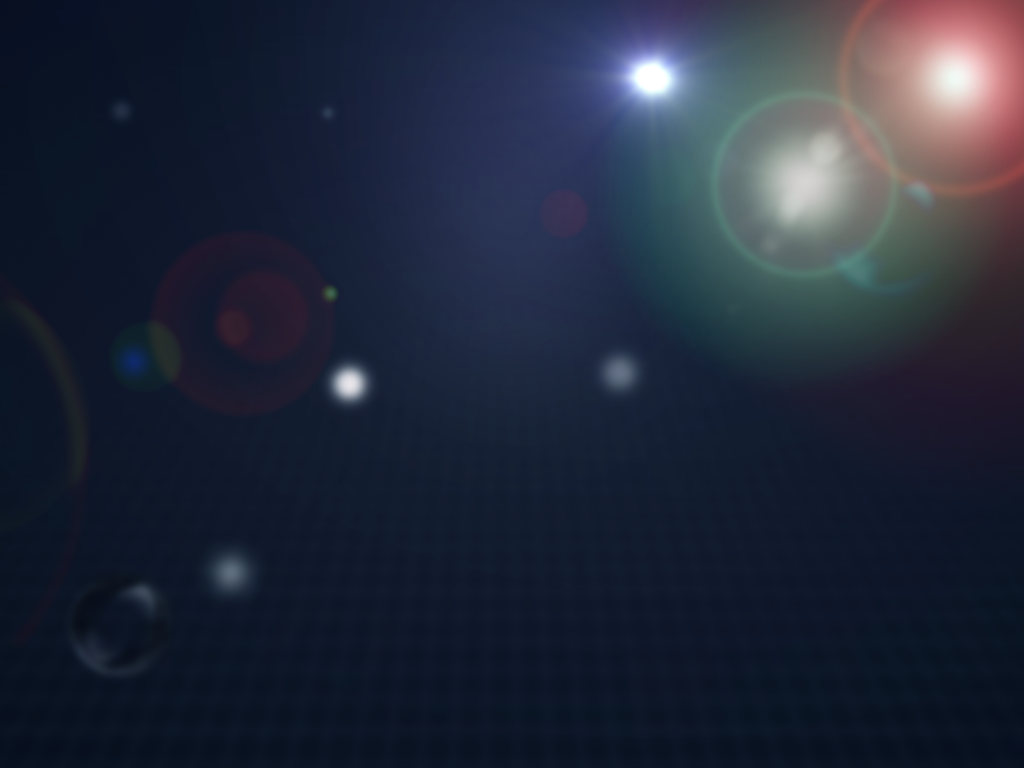
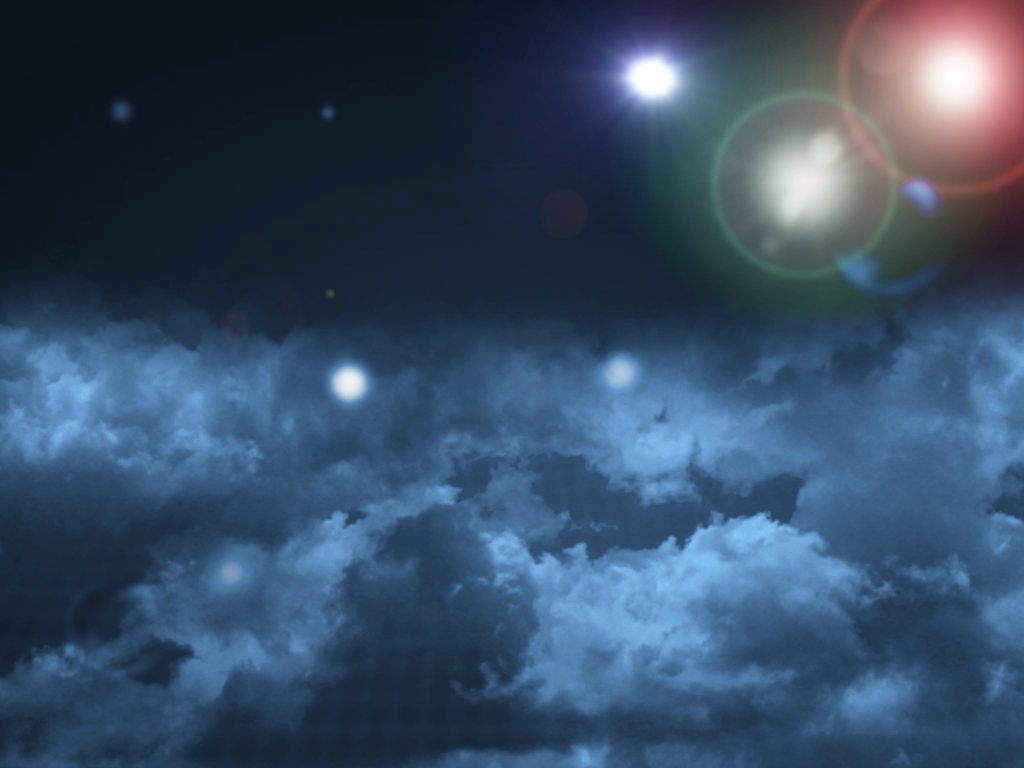
new css rules added

diff --git a/wp-content/themes/looptheme/assets/styles/layouts/_pages.scss b/wp-content/themes/looptheme/assets/styles/layouts/_pages.scss
@@ -46,9 +46,6 @@ html {
           max-width: 70%;
           background-color: $primary-color;
           padding: 15px !important;
-          > * > * {
-            margin: 0 10px 15px !important;
-          }
 -webkit-border-radius: 7px !important;
 border-radius: 7px !important;
           border: 1px solid $border-color !important;
@@ -112,14 +109,14 @@ border-radius: 0 0 12px 12px !important;
             > input {
               float: left;
               min-width: 50%;
-              max-width: 74%;
+              max-width: 64%;
             }
 
             > span {
               float: right;
               width: 100%;
               max-width: 18%;
-              margin-right: 4%;
+              margin-right: 12%;
             }
           }
         }
@@ -133,5 +130,114 @@ border-radius: 0 0 12px 12px !important;
     }
 
     //body end
+  }
+}
+
+html body .container {
+  .widget_calendar,
+  .widget_tag_cloud,
+  .widget_newsletterwidget {
+    position: relative;
+    display: inline-block;
+    float: left;
+    width: 100%;
+    max-width: 23%;
+    height: auto !important;
+  }
+
+  .widget_calendar {
+    table#wp-calendar {
+      clear: both;
+      position: relative;
+      width: 100% !important;
+      max-width: 94%;
+      height: auto !important;
+
+      caption {
+        font-size: 1.5em;
+        font-weight: bold;
+      }
+
+      thead,
+      tbody,
+      tfoot {
+        tr {
+          * {
+            font-weight: bold !important;
+            text-align: center;
+            vertical-align: middle;
+            padding: 0.5em 0.6em !important;
+          }
+
+          th {
+            display: inline-block;
+            padding: 0.5em 0.8em !important;
+            content: "&nbsp;";
+          }
+
+          td {
+            color: $primary-font-color !important;
+
+            a {
+              color: $tertiary-color !important;
+              padding: 0 !important;
+
+              &:hover {
+                color: $secondary-font-color !important;
+              }
+            }
+          }
+        }
+      }
+
+      tbody {
+        display: inline-block;
+        background-color: none !important;//rgba(8,18,28,1);
+        background: url('/wp-content/themes/looptheme/assets/images/GreenColorArea.jpg') !important;
+        background-size: 100%;
+        background-position: top left;
+        background-attachment: fixed;
+        border: 1px solid transparent !important;
+-webkit-border-radius: 12px !important;
+border-radius: 12px !important;
+        overflow: hidden !important;
+      }
+
+      tfoot {
+        display: none;
+      }
+    }
+  }
+
+  .widget_tag_cloud {
+    float: right;
+    max-width: 73%;
+
+    .tagcloud {
+      a {
+        color: $tertiary-color !important;
+        background-color: none !important;//rgba(8,18,28,1);
+        background: url('/wp-content/themes/looptheme/assets/images/RedColorArea.jpg') repeat !important;
+        background-size: 100%;
+        background-position: top left;
+        background-attachment: fixed;
+        padding: 0.2em 0.5em !important;
+        margin-right: 0.5em;
+        margin-bottom: 15px;
+        font-size: 1em !important;
+-webkit-border-radius: 7px !important;
+border-radius: 7px !important;
+        border: 1px solid transparent !important;
+        overflow: hidden !important;
+
+        &:hover {
+          background: url('/wp-content/themes/looptheme/assets/images/GreenColorArea.jpg') repeat !important;
+        }
+      }
+    }
+  }
+
+  .widget_newsletterwidget {
+    max-width: 73%;
   }
 }

diff --git a/wp-content/themes/looptheme/assets/styles/common/_global.scss b/wp-content/themes/looptheme/assets/styles/common/_global.scss
@@ -13,6 +13,14 @@ html {
     background-position: top left;
     background-attachment: fixed;
 
+    img.backgroundTop {
+      position: absolute;
+      top: 0;
+      left: 0;
+      width: 100%;
+      height: auto !important;
+    }
+
     div.container.wrap {
       position: relative;
       display: block;
@@ -72,7 +80,8 @@ html {
 
     h1 {
       font-weight: bold !important;
-      color: rgba(200,200,200,1) !important;
+      //color: rgba(200,200,200,1) !important;
+      color: $tertiary-color !important;
       text-shadow: 0 0 1px #444 !important;
     }
 
@@ -119,12 +128,14 @@ html {
       display: inherit;
       color: $primary-font-color !important;
       background-color: $textfield-color !important;
+      padding: 0.25em 0.5em !important;
       border: 1px solid $border-color !important;
       -webkit-border-radius: 7px !important;
       border-radius: 7px !important;
       overflow: hidden !important;
       opacity: $font-opacity !important;
       resize: none !important;
+      margin-top: 15px !important;
       margin-right: 2% !important;
 
       &:focus {
@@ -142,11 +153,7 @@ box-shadow: 0 0 2px 3px rgba(220,235,255,0.33) !important;
       font-weight: bold !important;
       position: relative;
       display: inherit;
-      &, * {
-        color: #fff !important;
-        font-weight: bold !important;
-        letter-spacing: 0.025em !important;
-      }
+      margin-top: 15px !important;
 background: rgb(38,67,102) !important;
[1 lines of base64/hex data omitted]
 background: -moz-linear-gradient(top, rgba(38,67,102,1) 0%, rgba(25,87,141,1) 50%, rgba(21,79,129,1) 51%, rgba(35,126,195,1) 100%) !important;
@@ -160,6 +167,12 @@ filter: progid:DXImageTransform.Microsoft.gradient( startColorstr='#264366', end
       -webkit-border-radius: 7px !important;
       border-radius: 7px !important;
       opacity: $button-opacity !important;
+
+      &, * {
+        color: #fff !important;
+        font-weight: bold !important;
+        letter-spacing: 0.025em !important;
+      }
 
       &:hover {
 background: rgb(30,146,6) !important;

diff --git a/wp-content/themes/looptheme/assets/styles/layouts/_header.scss b/wp-content/themes/looptheme/assets/styles/layouts/_header.scss
@@ -21,7 +21,8 @@ body {
 
       a.brand {
         position: relative;
-        float: left;
+        display: block;
+        float: none;
         font-size: 4.2em !important;
         font-weight: bold !important;
         font-family: 'IM Fell Great Primer', serif;
@@ -29,13 +30,68 @@ body {
         text-decoration: none !important;
         text-shadow: 0 0 3px $quarter-color !important;
         margin-right: 2% !important;
+        z-index: 0;
+
+        img.mainLogo {
+          position: relative;
+          left: -20px;
+          display: block;
+          width: 100%;
+          max-width: 480px;
+          height: auto !important;
+          z-index: 10000;
+        }
       }
 
       .slogan {
         position: relative;
-        display: inline-block;
+        display: none !important;//inline-block;
+        visibility: hidden !important;
         margin-top: 2.25em !important;
         letter-spacing: 0.025em !important;
+      }
+
+      > nav {
+        position: relative;
+        clear: both;
+        display: inline-block;
+        z-index: 9500;
+
+        div {
+          ul {
+            position: relative;
+            display: block;
+            width: 100%;
+            height: auto !important;
+
+            li {
+              display: inline-block;
+              padding: 0 !important;
+              margin-right: 0.5em !important;
+              background-color: none;
+              background-image: url('/wp-content/themes/looptheme/assets/images/RedColorArea.jpg');
+              background-size: 100%;
+              background-position: top left;
+              background-attachment: fixed;
+-webkit-border-radius: 12px !important;
+border-radius: 12px !important;
+              border: 1px solid $border-color !important;
+-webkit-box-shadow: 0 0 6px 0 $shadow-color;
+box-shadow: 0 0 6px 0 $shadow-color;
+              overflow: hidden !important;
+
+              a {
+                color: $tertiary-color !important;
+                font-size: 1.25em !important;
+                padding: 0.5em 0.75em !important;
+              }
+
+              &:hover {
+                background-image: url('/wp-content/themes/looptheme/assets/images/GreenColorArea.jpg');
+              }
+            }
+          }
+        }
       }
     }
   }

diff --git a/wp-content/themes/looptheme/assets/styles/layouts/_posts.scss b/wp-content/themes/looptheme/assets/styles/layouts/_posts.scss
@@ -19,6 +19,10 @@ html {
           width: 100%;
           margin-top: 15px !important;
 
+          > * {
+            margin: 15px !important;
+          }
+
           .page-header {
             border-color: transparent !important;
           }
@@ -51,8 +55,8 @@ html {
               background-attachment: fixed;
               padding: 10px 15px !important;
               border: 1px solid $border-color !important;
--webkit-border-radius: 25px !important;
-border-radius: 25px !important;
+-webkit-border-radius: 12px !important;
+border-radius: 12px !important;
               overflow: hidden !important;
             }
           }
@@ -182,6 +186,20 @@ border-radius: 6px !important;
           }
 
           padding-bottom: 15px !important;
+        }
+
+        .sidebar {
+          > * {
+            margin: 0 15px !important;
+
+            &:first-child {
+              margin-top: 15px !important;
+            }
+
+            &:last-child {
+              margin-bottom: 15px !important;
+            }
+          }
         }
 
         #comments {

diff --git a/wp-content/themes/looptheme/assets/styles/common/_variables.scss b/wp-content/themes/looptheme/assets/styles/common/_variables.scss
@@ -12,17 +12,17 @@ $backbone-primary: rgba(0,16,32,1);
 $footer-color: rgba(0,0,0,0.5);
 
 $base-color: rgba(40,50,60,0.75);
-$ground-color: rgba(5,10,14,1);
-$primary-color: rgba(18,28,38,1);
-$secondary-color: rgba(160,170,180,1);
-$tertiary-color: rgba(245,220,15,1);
+$ground-color: rgba(5,10,14,0.8);
+$primary-color: rgba(18,28,38,0.8);
+$secondary-color: rgba(160,170,180,0.8);
+$tertiary-color: rgba(245,220,15,0.8);
 $quarter-color: rgba(0,0,0,0.75);
 $fifth-color: rgba(230,240,250,0.95);
 
 $main-font-color: $fifth-color;
 $primary-font-color: $fifth-color - rgba(40,40,40,0.95);
-$secondary-font-color: rgba(230,10,20,1);
-$tertiary-font-color: $tertiary-color + rgba(64,54,12,1);
+$secondary-font-color: rgba(180,10,20,1);
+$tertiary-font-color: $tertiary-color + rgba(64,54,12,0.8);
 $quarter-font-color: $fifth-color;
 
 $font-opacity: 1;

diff --git a/wp-content/themes/looptheme/templates/header.php b/wp-content/themes/looptheme/templates/header.php
@@ -1,7 +1,9 @@
 <img class="webArea" src="/wp-content/uploads/2015/09/raw_background.jpg" alt="" width="auto" height="100%">
 <header class="banner" role="banner">
+  <img class="backgroundTop" src="/wp-content/themes/looptheme/assets/images/BackgroundTop.png" alt="" width="100%" height="auto">
   <div class="container">
-    <a class="brand" href="<?= esc_url(home_url('/')); ?>"><?php bloginfo('name'); ?></a>
+    <?php /* <a class="brand" href="<?= esc_url(home_url('/')); ?>"><?php bloginfo('name'); ?></a> */ ?>
+    <a class="brand" href="<?= esc_url(home_url('/')); ?>"><img class="mainLogo" src="/wp-content/themes/looptheme/assets/images/AwebgoLogo.png" alt=""></a>
     <nav role="navigation">
       <?php
       if (has_nav_menu('primary_navigation')) :
